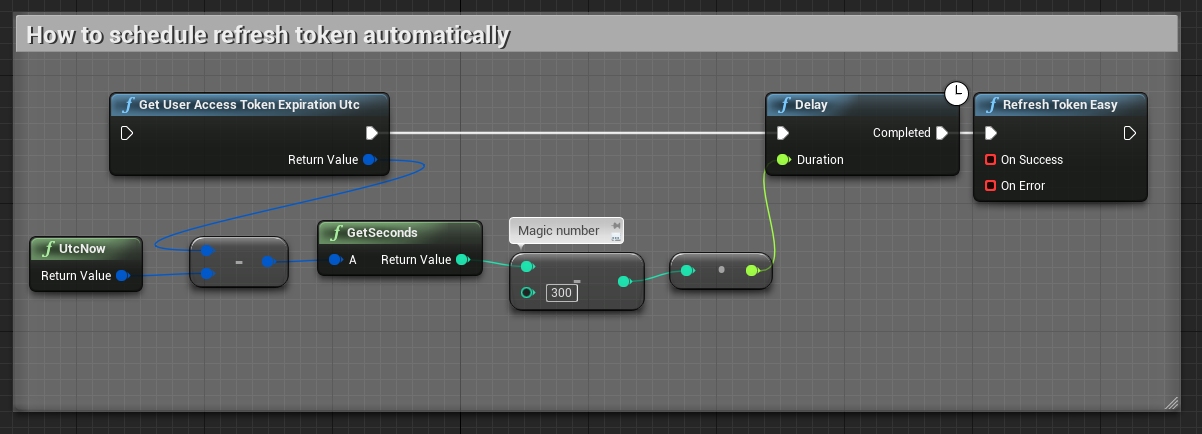
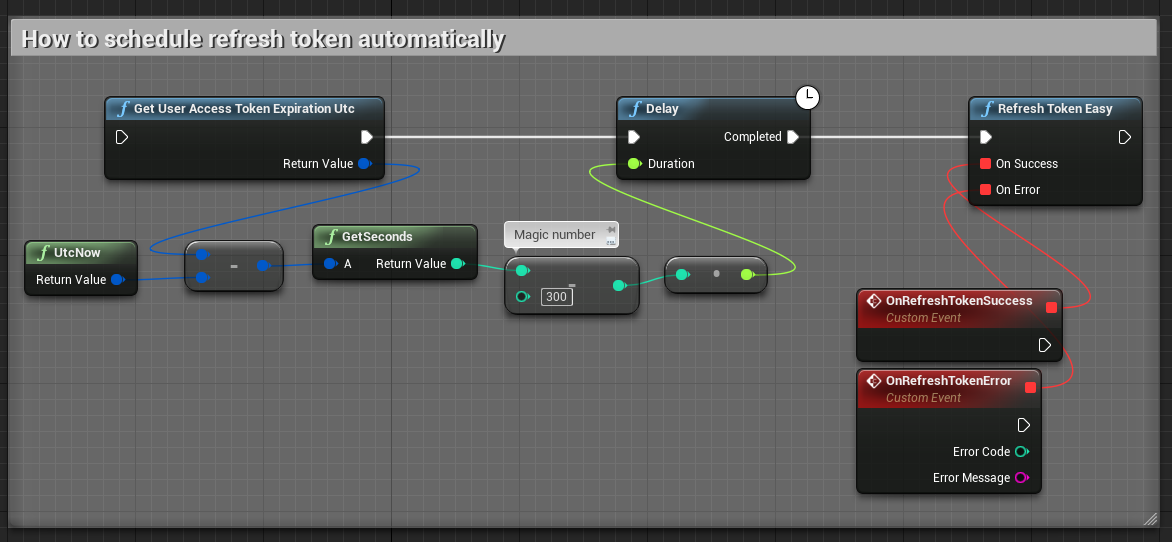
Implement kick party member in Lobby API. Updated documentation with new pictures. Added project information, project licensing information, project image.
- Implemented "kick party member" in Lobby API.

    - Updated documentation with new pictures.

    - Added project information, project licensing information, project image.

diff --git a/Plugins/AccelByteUe4Sdk/Source/AccelByteUe4Sdk/Private/Blueprints/AccelByteLobbyBlueprints.cpp b/Plugins/AccelByteUe4Sdk/Source/AccelByteUe4Sdk/Private/Blueprints/AccelByteLobbyBlueprints.cpp
@@ -69,9 +69,14 @@ void UAccelByteBlueprintsLobby::SendInviteToPartyRequest(const FString& UserId)
 	Lobby::Get().SendInviteToPartyRequest(UserId);
 }
 
-void UAccelByteBlueprintsLobby::SendAcceptInvitationRequest(const FString& PartyId, FString InvitationToken)
+void UAccelByteBlueprintsLobby::SendAcceptInvitationRequest(const FString& PartyId, const FString& InvitationToken)
 {
 	Lobby::Get().SendAcceptInvitationRequest(PartyId, InvitationToken);
+}
+
+void UAccelByteBlueprintsLobby::SendKickPartyMemberRequest(const FString& UserId)
+{
+	Lobby::Get().SendKickPartyMemberRequest(UserId);
 }
 
 void UAccelByteBlueprintsLobby::SendGetOnlineUsersRequest()
@@ -80,56 +85,66 @@ void UAccelByteBlueprintsLobby::SendGetOnlineUsersRequest()
 }
 
 void UAccelByteBlueprintsLobby::BindDelegates(
-	const FPrivateMessageNotice& PrivateMessageNotice,
-	const FPartyMessageNotice& PartyMessageNotice,
-	const FInfoPartyResponse& InfoPartyResponse,
-	const FCreatePartyResponse& CreatePartyResponse,
-	const FLeavePartyResponse& LeavePartyResponse,
-	const FInviteToPartyResponse& InviteToPartyResponse,
-	const FPartyInvitationNotice& PartyInvitationNotice,
-	const FAcceptInvitationResponse& AcceptInvitationResponse,
-	const FPartyInvitationAcceptanceNotice& PartyInvitationAcceptanceNotice,
-	const FGetOnlineUsersResponse& GetOnlineUsersResponse)
+	const FPrivateMessageNotice& OnPrivateMessageNotice,
+	const FPartyMessageNotice& OnPartyMessageNotice,
+	const FInfoPartyResponse& OnInfoPartyResponse,
+	const FCreatePartyResponse& OnCreatePartyResponse,
+	const FLeavePartyResponse& OnLeavePartyResponse,
+	const FInviteToPartyResponse& OnInviteToPartyResponse,
+	const FPartyInvitationNotice& OnPartyInvitationNotice,
+	const FAcceptInvitationResponse& OnAcceptInvitationResponse,
+	const FPartyInvitationAcceptanceNotice& OnPartyInvitationAcceptanceNotice,
+	const FKickPartyMemberResponse& OnKickPartyMemberResponse,
+	const FGotKickedNoticeFromParty& OnGotKickedNoticeFromParty,
+	const FGetOnlineUsersResponse& OnGetOnlineUsersResponse)
 {
-	Lobby::Get().BindDelegates(Lobby::FPrivateMessageNotice::CreateLambda([PrivateMessageNotice](const FAccelByteModelsPrivateMessageNotice& Result)
+	Lobby::Get().BindDelegates(Lobby::FPrivateMessageNotice::CreateLambda([OnPrivateMessageNotice](const FAccelByteModelsPrivateMessageNotice& Result)
 	{
-		PrivateMessageNotice.ExecuteIfBound(Result);
+		OnPrivateMessageNotice.ExecuteIfBound(Result);
 	}),
-	Lobby::FPartyMessageNotice::CreateLambda([PartyMessageNotice](const FAccelByteModelsPartyMessageNotice& Result)
+	Lobby::FPartyMessageNotice::CreateLambda([OnPartyMessageNotice](const FAccelByteModelsPartyMessageNotice& Result)
 	{
-		PartyMessageNotice.ExecuteIfBound(Result);
+		OnPartyMessageNotice.ExecuteIfBound(Result);
 	}),
-	Lobby::FInfoPartyResponse::CreateLambda([InfoPartyResponse](const FAccelByteModelsInfoPartyResponse& Result)
+	Lobby::FInfoPartyResponse::CreateLambda([OnInfoPartyResponse](const FAccelByteModelsInfoPartyResponse& Result)
 	{
-		InfoPartyResponse.ExecuteIfBound(Result);
+		OnInfoPartyResponse.ExecuteIfBound(Result);
 	}),
-	Lobby::FCreatePartyResponse::CreateLambda([CreatePartyResponse](const FAccelByteModelsCreatePartyResponse& Result)
+	Lobby::FCreatePartyResponse::CreateLambda([OnCreatePartyResponse](const FAccelByteModelsCreatePartyResponse& Result)
 	{
-		CreatePartyResponse.ExecuteIfBound(Result);
+		OnCreatePartyResponse.ExecuteIfBound(Result);
 	}),
-	Lobby::FLeavePartyResponse::CreateLambda([LeavePartyResponse](const FAccelByteModelsLeavePartyResponse& Result)
+	Lobby::FLeavePartyResponse::CreateLambda([OnLeavePartyResponse](const FAccelByteModelsLeavePartyResponse& Result)
 	{
-		LeavePartyResponse.ExecuteIfBound(Result);
+		OnLeavePartyResponse.ExecuteIfBound(Result);
 	}),
-	Lobby::FInviteToPartyResponse::CreateLambda([InviteToPartyResponse](const FAccelByteModelsInviteToPartyResponse& Result)
+	Lobby::FInviteToPartyResponse::CreateLambda([OnInviteToPartyResponse](const FAccelByteModelsInviteToPartyResponse& Result)
 	{
-		InviteToPartyResponse.ExecuteIfBound(Result);
+		OnInviteToPartyResponse.ExecuteIfBound(Result);
 	}),
-	Lobby::FPartyInvitationNotice::CreateLambda([PartyInvitationNotice](const FAccelByteModelsPartyInvitationNotice& Result)
+	Lobby::FPartyInvitationNotice::CreateLambda([OnPartyInvitationNotice](const FAccelByteModelsPartyInvitationNotice& Result)
 	{
-		PartyInvitationNotice.ExecuteIfBound(Result);
+		OnPartyInvitationNotice.ExecuteIfBound(Result);
 	}),
-	Lobby::FAcceptInvitationResponse::CreateLambda([AcceptInvitationResponse](const FAccelByteModelsAcceptInvitationReponse& Result)
+	Lobby::FAcceptInvitationResponse::CreateLambda([OnAcceptInvitationResponse](const FAccelByteModelsAcceptInvitationReponse& Result)
 	{
-		AcceptInvitationResponse.ExecuteIfBound(Result);
+		OnAcceptInvitationResponse.ExecuteIfBound(Result);
 	}),
-	Lobby::FPartyInvitationAcceptanceNotice::CreateLambda([PartyInvitationAcceptanceNotice](const FAccelByteModelsPartyInvitationAcceptanceNotice& Result)
+	Lobby::FPartyInvitationAcceptanceNotice::CreateLambda([OnPartyInvitationAcceptanceNotice](const FAccelByteModelsPartyInvitationAcceptanceNotice& Result)
 	{
-		PartyInvitationAcceptanceNotice.ExecuteIfBound(Result);
+		OnPartyInvitationAcceptanceNotice.ExecuteIfBound(Result);
 	}),
-	Lobby::FGetOnlineUsersResponse::CreateLambda([GetOnlineUsersResponse](const FAccelByteModelsGetOnlineUsersResponse& Result)
+	Lobby::FKickPartyMemberResponse::CreateLambda([OnKickPartyMemberResponse](const FAccelByteModelsKickPartyMemberResponse& Result)
 	{
-		GetOnlineUsersResponse.ExecuteIfBound(Result);
+		OnKickPartyMemberResponse.ExecuteIfBound(Result);
+	}),
+	Lobby::FGotKickedNoticeFromParty::CreateLambda([OnGotKickedNoticeFromParty](const FAccelByteModelsGotKickedFromPartyNotice& Result)
+	{
+		OnGotKickedNoticeFromParty.ExecuteIfBound(Result);
+	}),
+	Lobby::FGetOnlineUsersResponse::CreateLambda([OnGetOnlineUsersResponse](const FAccelByteModelsGetOnlineUsersResponse& Result)
+	{
+		OnGetOnlineUsersResponse.ExecuteIfBound(Result);
 	}));
 }
 

diff --git a/Plugins/AccelByteUe4Sdk/Source/AccelByteUe4Sdk/Public/Api/AccelByteLobbyApi.h b/Plugins/AccelByteUe4Sdk/Source/AccelByteUe4Sdk/Public/Api/AccelByteLobbyApi.h
@@ -101,8 +101,14 @@ public:
 	 * @param PartyId Party ID from the invitation notice.
 	 * @param InvitationToken Random string from the invitation notice.
 	 */
-	void SendAcceptInvitationRequest(const FString& PartyId, FString InvitationToken);
-
+	void SendAcceptInvitationRequest(const FString& PartyId, const FString& InvitationToken);
+	
+	/**
+	 * @brief Kick a party member.
+	 * 
+	 * @param UserId The target user ID to be kicked.
+	 */
+	void SendKickPartyMemberRequest(const FString& UserId);
 	/**
 	 * @brief Get a list of online users in the Lobby server.
 	 */
@@ -117,6 +123,8 @@ public:
 	DECLARE_DELEGATE_OneParam(FPartyInvitationNotice, const FAccelByteModelsPartyInvitationNotice&);
 	DECLARE_DELEGATE_OneParam(FAcceptInvitationResponse, const FAccelByteModelsAcceptInvitationReponse&);
 	DECLARE_DELEGATE_OneParam(FPartyInvitationAcceptanceNotice, const FAccelByteModelsPartyInvitationAcceptanceNotice&);
+	DECLARE_DELEGATE_OneParam(FKickPartyMemberResponse, const FAccelByteModelsKickPartyMemberResponse&);
+	DECLARE_DELEGATE_OneParam(FGotKickedNoticeFromParty, const FAccelByteModelsGotKickedFromPartyNotice&);
 	DECLARE_DELEGATE_OneParam(FGetOnlineUsersResponse, const FAccelByteModelsGetOnlineUsersResponse&);
 
 	/**
@@ -127,14 +135,16 @@ public:
 	 * 
 	 * @param OnPrivateMessageNotice Called when a private message was received.
 	 * @param OnPartyMessageNotice Called when a party message was received.
-	 * @param OnInfoPartyResponse Called when server has responsed to "get party information".
-	 * @param OnCreatePartyResponse Called when server has responsed to "create party".
-	 * @param OnLeavePartyResponse Called when server has responsed to "leave party".
-	 * @param OnInviteToPartyResponse Called when server has responsed to "invite a user to party".
+	 * @param OnInfoPartyResponse Called when server has responded to "get party information".
+	 * @param OnCreatePartyResponse Called when server has responded to "create party".
+	 * @param OnLeavePartyResponse Called when server has responded to "leave party".
+	 * @param OnInviteToPartyResponse Called when server has responded to "invite a user to party".
 	 * @param OnPartyInvitationNotice Called when you receive an invitation to join other's party.
-	 * @param OnAcceptInvitationResponse Called when server has responsed to "accept a party invitation".
+	 * @param OnAcceptInvitationResponse Called when server has responded to "accept a party invitation".
 	 * @param OnPartyInvitationAcceptanceNotice Called when your party invitation has been accepted.
-	 * @param OnGetOnlineUsersResponse Called when server has responsed to "get online users".
+	 * @param OnKickPartyMemberResponse Called when server has responded to "kick a party member".
+	 * @param OnGotKickedNoticeFromParty Called when you got kicked from party.
+	 * @param OnGetOnlineUsersResponse Called when server has responded to "get online users".
 	 */
 	void BindDelegates(
 		const FPrivateMessageNotice& OnPrivateMessageNotice,
@@ -146,6 +156,8 @@ public:
 		const FPartyInvitationNotice& OnPartyInvitationNotice,
 		const FAcceptInvitationResponse& OnAcceptInvitationResponse,
 		const FPartyInvitationAcceptanceNotice& OnPartyInvitationAcceptanceNotice,
+		const FKickPartyMemberResponse& OnKickPartyMemberResponse,
+		const FGotKickedNoticeFromParty& OnGotKickedNoticeFromParty,
 		const FGetOnlineUsersResponse& OnGetOnlineUsersResponse
 	);
 	/**
@@ -179,6 +191,8 @@ private:
 	FPartyInvitationNotice PartyInvitationNotice;
 	FAcceptInvitationResponse AcceptInvitationResponse;
 	FPartyInvitationAcceptanceNotice PartyInvitationAcceptanceNotice;
+	FKickPartyMemberResponse KickPartyMemberResponse;
+	FGotKickedNoticeFromParty GotKickedFromPartyNotice;
 	FGetOnlineUsersResponse GetOnlineUsersResponse;
 };
 

diff --git a/Plugins/AccelByteUe4Sdk/Source/AccelByteUe4Sdk/Private/Api/AccelByteLobbyApi.cpp b/Plugins/AccelByteUe4Sdk/Source/AccelByteUe4Sdk/Private/Api/AccelByteLobbyApi.cpp
@@ -130,11 +130,21 @@ void Lobby::SendInviteToPartyRequest(const FString& UserId)
 	}
 }
 
-void Lobby::SendAcceptInvitationRequest(const FString& PartyId, FString InvitationToken)
+void Lobby::SendAcceptInvitationRequest(const FString& PartyId, const FString& InvitationToken)
 {
 	if (WebSocket.IsValid() && WebSocket->IsConnected())
 	{
 		FString Content = FString::Printf(TEXT("type:join\npartyID:%s\ninvitationToken:%s\n"), *PartyId, *InvitationToken);
+		WebSocket->Send(Content);
+		UE_LOG(LogTemp, Display, TEXT("Sending request: %s"), *Content)
+	}
+}
+
+void Lobby::SendKickPartyMemberRequest(const FString& UserId)
+{
+	if (WebSocket.IsValid() && WebSocket->IsConnected())
+	{
+		FString Content = FString::Printf(TEXT("type:kick\nmemberID:%s\n"), *UserId);
 		WebSocket->Send(Content);
 		UE_LOG(LogTemp, Display, TEXT("Sending request: %s"), *Content)
 	}
@@ -159,6 +169,8 @@ void Lobby::BindDelegates(const FPrivateMessageNotice& OnPrivateMessageReceived,
 	const FPartyInvitationNotice& OnPartyInvitationReceived,
 	const FAcceptInvitationResponse& OnAcceptInvitationResponse,
 	const FPartyInvitationAcceptanceNotice& OnPartyInvitationAcceptanceReceived,
+	const FKickPartyMemberResponse& OnKickPartyMemberResponse,
+	const FGotKickedNoticeFromParty& OnGotKickedNoticeFromParty,
 	const FGetOnlineUsersResponse& OnGetOnlineUsersResponse)
 {
 	PrivateMessageNotice = OnPrivateMessageReceived;
@@ -170,6 +182,8 @@ void Lobby::BindDelegates(const FPrivateMessageNotice& OnPrivateMessageReceived,
 	PartyInvitationNotice = OnPartyInvitationReceived;
 	AcceptInvitationResponse = OnAcceptInvitationResponse;
 	PartyInvitationAcceptanceNotice = OnPartyInvitationAcceptanceReceived;
+	KickPartyMemberResponse = OnKickPartyMemberResponse,
+	GotKickedFromPartyNotice = OnGotKickedNoticeFromParty,
 	GetOnlineUsersResponse = OnGetOnlineUsersResponse;
 }
 
@@ -185,6 +199,8 @@ void Lobby::UnbindDelegates()
 	PartyInvitationNotice.Unbind();
 	AcceptInvitationResponse.Unbind();
 	PartyInvitationAcceptanceNotice.Unbind();
+	KickPartyMemberResponse.Unbind();
+	GotKickedFromPartyNotice.Unbind();
 	GetOnlineUsersResponse.Unbind();
 }
 
@@ -217,7 +233,7 @@ void Lobby::OnMessage(const FString& Message)
 	ParsedJson.ReplaceInline(TEXT(":"), TEXT("\":\""));
 	ParsedJson.ReplaceInline(TEXT("\n"), TEXT("\",\""));
 	
-	UE_LOG(LogTemp, Display, TEXT("Parsed: %s"), *ParsedJson)
+	UE_LOG(LogTemp, Display, TEXT("CONVERTED TO JSON: %s"), *ParsedJson)
 
 	FAccelByteModelsLobbyType Type;
 	FJsonObjectConverter::JsonObjectStringToUStruct(ParsedJson, &Type, 0, 0);
@@ -278,6 +294,18 @@ void Lobby::OnMessage(const FString& Message)
 		FAccelByteModelsPartyInvitationAcceptanceNotice Result;
 		FJsonObjectConverter::JsonObjectStringToUStruct(ParsedJson, &Result, 0, 0);
 		PartyInvitationAcceptanceNotice.ExecuteIfBound(Result);
+	}
+	else if (ResponseType.Compare(TEXT("kick")) == 0)
+	{
+		FAccelByteModelsKickPartyMemberResponse Result;
+		FJsonObjectConverter::JsonObjectStringToUStruct(ParsedJson, &Result, 0, 0);
+		KickPartyMemberResponse.ExecuteIfBound(Result);
+	}
+	else if (ResponseType.Compare(TEXT("kickNotice")) == 0)
+	{
+		FAccelByteModelsGotKickedFromPartyNotice Result;
+		FJsonObjectConverter::JsonObjectStringToUStruct(ParsedJson, &Result, 0, 0);
+		GotKickedFromPartyNotice.ExecuteIfBound(Result);
 	}
 	else if (ResponseType.Compare(TEXT("onlineFriends")) == 0)
 	{

diff --git a/Plugins/AccelByteUe4Sdk/Source/AccelByteUe4Sdk/Public/Blueprints/AccelByteLobbyBlueprints.h b/Plugins/AccelByteUe4Sdk/Source/AccelByteUe4Sdk/Public/Blueprints/AccelByteLobbyBlueprints.h
@@ -42,7 +42,9 @@ public:
 	UFUNCTION(BlueprintCallable, Category = "AccelByte | Lobby | Api")
 	static void SendInviteToPartyRequest(const FString& UserId);
 	UFUNCTION(BlueprintCallable, Category = "AccelByte | Lobby | Api")
-	static void SendAcceptInvitationRequest(const FString& PartyId, FString InvitationToken);
+	static void SendAcceptInvitationRequest(const FString& PartyId, const FString& InvitationToken);
+	UFUNCTION(BlueprintCallable, Category = "AccelByte | Lobby | Api")
+	static void SendKickPartyMemberRequest(const FString& UserId);
 	UFUNCTION(BlueprintCallable, Category = "AccelByte | Lobby | Api")
 	static void SendGetOnlineUsersRequest();
 
@@ -55,20 +57,24 @@ public:
 	DECLARE_DYNAMIC_DELEGATE_OneParam(FPartyInvitationNotice, const FAccelByteModelsPartyInvitationNotice&, Result);
 	DECLARE_DYNAMIC_DELEGATE_OneParam(FAcceptInvitationResponse, const FAccelByteModelsAcceptInvitationReponse&, Result);
 	DECLARE_DYNAMIC_DELEGATE_OneParam(FPartyInvitationAcceptanceNotice, const FAccelByteModelsPartyInvitationAcceptanceNotice&, Result);
+	DECLARE_DYNAMIC_DELEGATE_OneParam(FKickPartyMemberResponse, const FAccelByteModelsKickPartyMemberResponse&, Result);
+	DECLARE_DYNAMIC_DELEGATE_OneParam(FGotKickedNoticeFromParty, const FAccelByteModelsGotKickedFromPartyNotice&, Result);
 	DECLARE_DYNAMIC_DELEGATE_OneParam(FGetOnlineUsersResponse, const FAccelByteModelsGetOnlineUsersResponse&, Result);
 	
 	UFUNCTION(BlueprintCallable, Category = "AccelByte | Lobby | Api")
 	static void BindDelegates(
-		const FPrivateMessageNotice& PrivateMessageNotice,
-		const FPartyMessageNotice& PartyMessageNotice,
-		const FInfoPartyResponse& InfoPartyResponse,
-		const FCreatePartyResponse& CreatePartyResponse,
-		const FLeavePartyResponse& LeavePartyResponse,
-		const FInviteToPartyResponse& InviteToPartyResponse,
-		const FPartyInvitationNotice& PartyInvitationNotice,
-		const FAcceptInvitationResponse& AcceptInvitationResponse,
-		const FPartyInvitationAcceptanceNotice& PartyInvitationAcceptanceNotice,
-		const FGetOnlineUsersResponse& GetOnlineUsersResponse
+		const FPrivateMessageNotice& OnPrivateMessageNotice,
+		const FPartyMessageNotice& OnPartyMessageNotice,
+		const FInfoPartyResponse& OnInfoPartyResponse,
+		const FCreatePartyResponse& OnCreatePartyResponse,
+		const FLeavePartyResponse& OnLeavePartyResponse,
+		const FInviteToPartyResponse& OnInviteToPartyResponse,
+		const FPartyInvitationNotice& OnPartyInvitationNotice,
+		const FAcceptInvitationResponse& OnAcceptInvitationResponse,
+		const FPartyInvitationAcceptanceNotice& OnPartyInvitationAcceptanceNotice,
+		const FKickPartyMemberResponse& OnKickPartyMemberResponse,
+		const FGotKickedNoticeFromParty& OnGotKickedNoticeFromParty,
+		const FGetOnlineUsersResponse& OnGetOnlineUsersResponse
 	);
 	UFUNCTION(BlueprintCallable, Category = "AccelByte | Lobby | Api")
 	static void UnbindDelegates();

diff --git a/Plugins/AccelByteUe4Sdk/Source/AccelByteUe4Sdk/Public/Models/AccelByteLobbyModels.h b/Plugins/AccelByteUe4Sdk/Source/AccelByteUe4Sdk/Public/Models/AccelByteLobbyModels.h
@@ -140,6 +140,26 @@ struct ACCELBYTEUE4SDK_API FAccelByteModelsPartyInvitationAcceptanceNotice
 };
 
 USTRUCT(BlueprintType)
+struct ACCELBYTEUE4SDK_API FAccelByteModelsKickPartyMemberResponse
+{
+	GENERATED_BODY()
+	UPROPERTY(EditAnywhere, BlueprintReadOnly, Category = "AccelByte | Category | Models | Lobby")
+	FString Code;
+};
+
+USTRUCT(BlueprintType)
+struct ACCELBYTEUE4SDK_API FAccelByteModelsGotKickedFromPartyNotice
+{
+	GENERATED_BODY()
+	UPROPERTY(EditAnywhere, BlueprintReadOnly, Category = "AccelByte | Category | Models | Lobby")
+	FString LeaderId;
+	UPROPERTY(EditAnywhere, BlueprintReadOnly, Category = "AccelByte | Category | Models | Lobby")
+	FString UserId;
+	UPROPERTY(EditAnywhere, BlueprintReadOnly, Category = "AccelByte | Category | Models | Lobby")
+	FString PartyId;
+};
+
+USTRUCT(BlueprintType)
 struct ACCELBYTEUE4SDK_API FAccelByteModelsGetOnlineUsersResponse
 {
 	GENERATED_BODY()

diff --git a/Documentation/tutorial.md b/Documentation/tutorial.md
@@ -84,6 +84,10 @@ See AccelByte::Api::UserAuthentication::RefreshToken().
 
 You can refresh token automatically before it expired with AccelByte::Credentials::GetUserAccessTokenExpirationUtc(). For example, see below.
 
+**Auto refresh token with timer**
+![](images/schedule_refresh_timer.png)
+
+**Auto refresh token with delay**
 ![](images/schedule_refresh.png)
 
 ### Logout
@@ -336,6 +340,8 @@ AccelByte::Api::Lobby::BindDelegates(
     OnPartyInvitationNotice, // Called when you receive an invitation to join other's party.
     OnAcceptInvitationResponse,  // Called when server has responsed to "accept a party invitation".
     OnPartyInvitationAcceptanceNotice, //  Called when your party invitation has been accepted.
+    OnKickPartyMemberResponse, // Called when server has responded to "kick a party member".
+    OnGotKickedNoticeFromParty, // Called when you got kicked from party.
     OnGetOnlineUsersResponse // Called when server has responsed to "get online users".
 );
 ```
@@ -386,6 +392,12 @@ AccelByte::Api::Lobby::SendInviteToPartyRequest(TEXT("Bahamut"));
 Invite someone to party. `PartyId` and `InvitationToken` are from the invitation notice.
 ```cpp
 AccelByte::Api::Lobby::SendAcceptInvitationRequest(TEXT("Bahamut's Party"), TEXT("Random text from the invitation notice"));
+```
+
+### Kick a party member
+Only party leader can kick a party member.
+```cpp
+AccelByte::Api::Lobby::SendKickPartyMemberRequest(TEXT("Behemoth"));
 ```
 
 ### Get all online users

diff --git a/Documentation/quickstart_guide.md b/Documentation/quickstart_guide.md
@@ -100,6 +100,7 @@ The examples include how to implement the following functionalities in blueprint
     - Leave current party
     - Invite someone to party
     - Accept a party invitation
+    - Kick a party member
 - Notification
     - Party invitation notice (Someone has invited you to party)
     - Party invitation acceptance notice (someone has accepted your invitation to the party)
